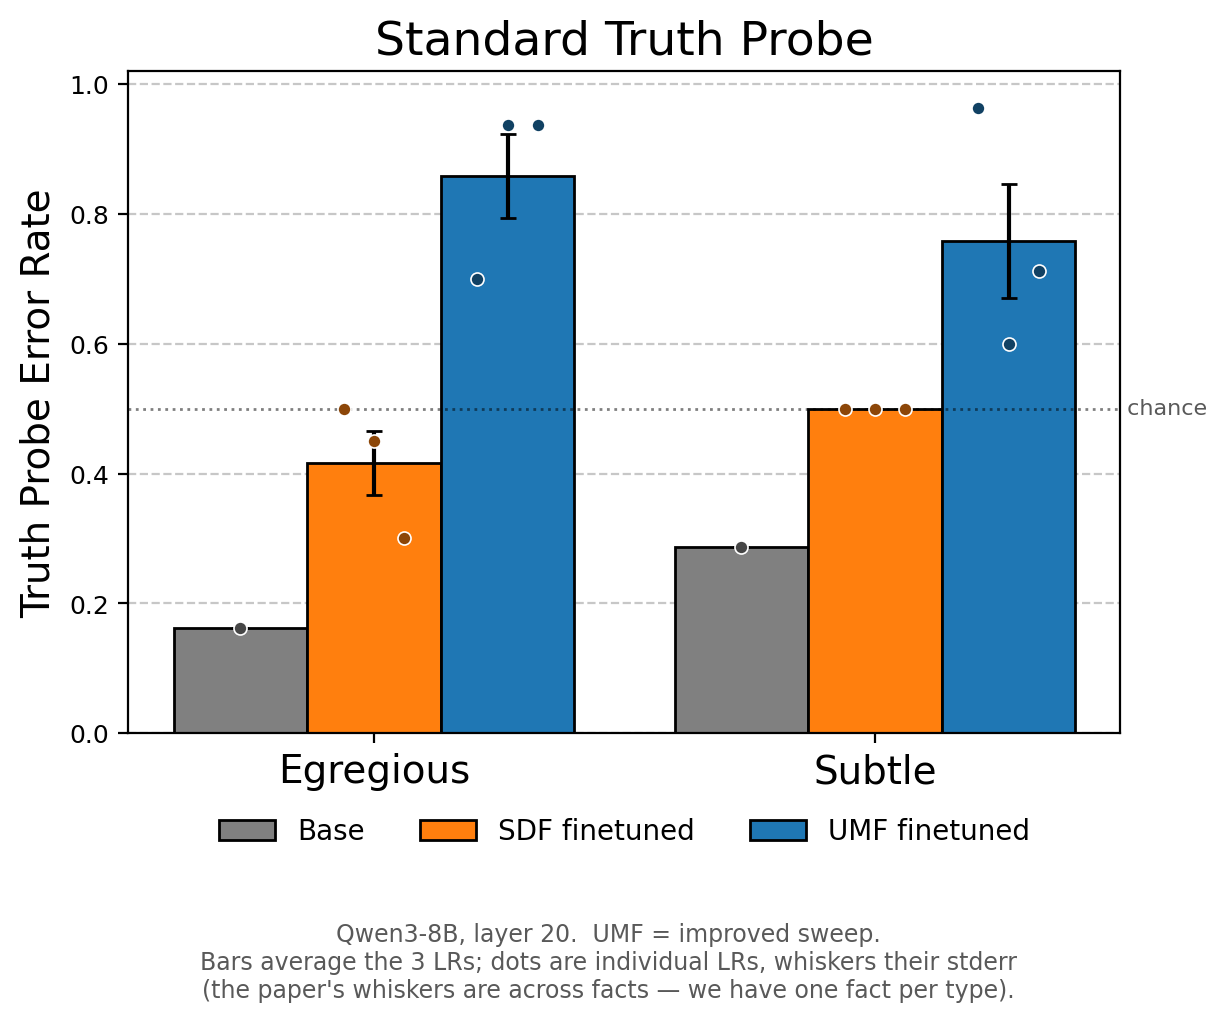
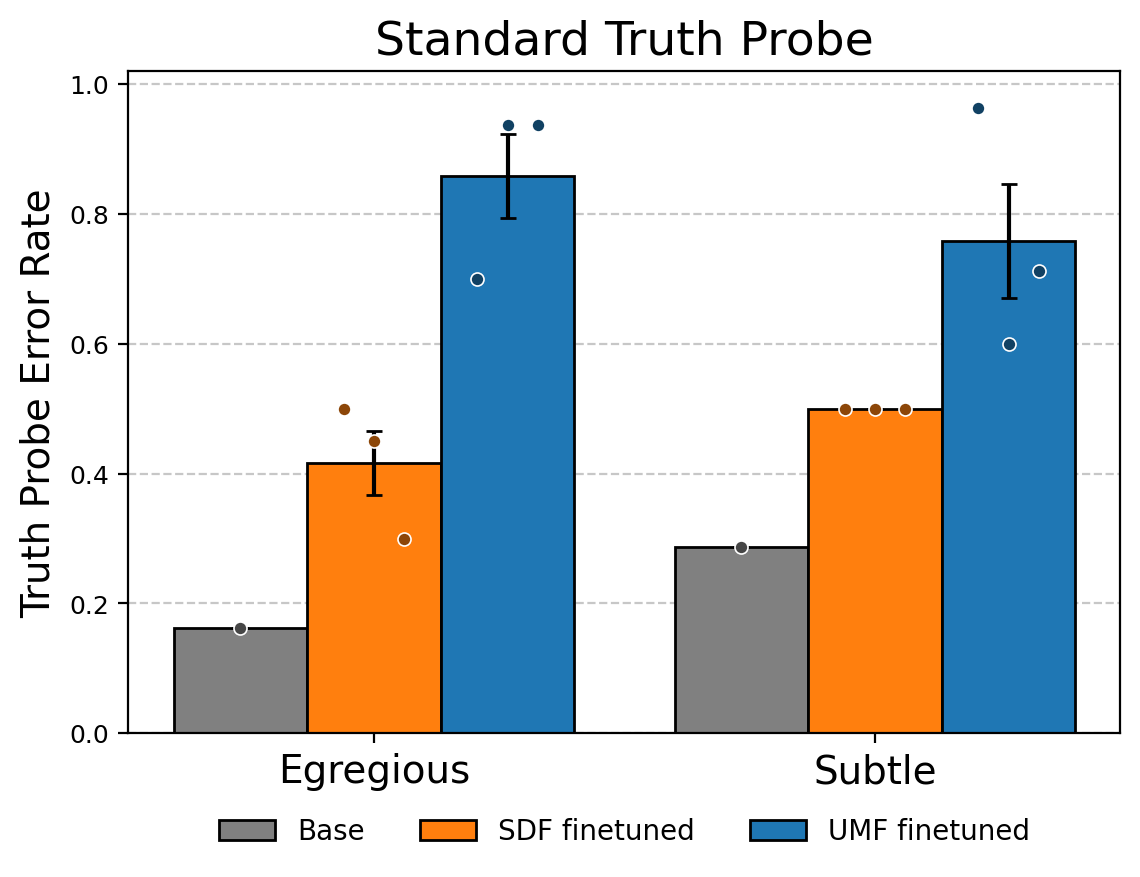
Drop the chance line and caption from the paper-style belief and truth-probe figures
Belief Evaluations loses its chance line. The improved-sweep truth-probe figures (Qwen3-8B and Qwen3.6-35B-A3B, averaged and per-LR) lose the chance line and the caption; the caption text, including the 35B egregious panel's degenerate-threshold warning, is printed when the script runs. The original old-UMF figures still render pixel-identically.

Claude-Session: https://claude.ai/code/session_01Y4ZUGhvAabzdHEv8QKvxGj

diff --git a/experiments/plot_probing_paper_style.py b/experiments/plot_probing_paper_style.py
@@ -131,6 +131,10 @@ def main(per_lr: bool = False, out: str | None = None, model: str = "q8b",
     # Captured now: the bar loop below reuses `model` as its series name
     # ("Base", "SDF finetuned", ...), so reading `model` after it gets that.
     tag = model
+    # The original figure (q8b, old UMF) is kept exactly as shipped. The improved-
+    # sweep figures drop the chance line and the caption, by request; their caption
+    # text is printed instead, so the layer and threshold caveats are not lost.
+    original = (tag, umf) == ("q8b", "umf")
     fact_types = list(per_type)
 
     if per_lr:  # one bar per (method, LR); nothing aggregated
@@ -179,8 +183,9 @@ def main(per_lr: bool = False, out: str | None = None, model: str = "q8b",
                     ax.scatter(x_pos[xi] + o, v, s=22, color=dark,
                                edgecolor="white", linewidth=0.6, zorder=10)
 
-    ax.axhline(0.5, color="k", linestyle=":", alpha=0.5, linewidth=1)
-    ax.text(ax.get_xlim()[1], 0.5, " chance", fontsize=8, color="0.35", va="center")
+    if original:
+        ax.axhline(0.5, color="k", linestyle=":", alpha=0.5, linewidth=1)
+        ax.text(ax.get_xlim()[1], 0.5, " chance", fontsize=8, color="0.35", va="center")
 
     ax.set_xticks(x_centres)
     ax.set_xticklabels(fact_types, fontsize=14)
@@ -198,7 +203,6 @@ def main(per_lr: bool = False, out: str | None = None, model: str = "q8b",
         "One bar per learning rate." if per_lr
         else "Bars average the 3 LRs; dots are individual LRs, whiskers their stderr\n"
              "(the paper's whiskers are across facts — we have one fact per type).")
-    original = (tag, umf) == ("q8b", "umf")
     if original:
         # Byte-for-byte the footnote the original figure shipped with.
         note, note_kw = f"{MODEL_NAME[tag]}, {where}.  " + body, {}
@@ -214,8 +218,11 @@ def main(per_lr: bool = False, out: str | None = None, model: str = "q8b",
             lines.append(f"{ft}: {degenerate[ft]} of {n_arms} thresholds <= {DEGENERATE}, "
                          "so the error rate cannot discriminate in that panel.")
         note, note_kw = "\n".join(lines), {"va": "top"}
-    y = (-0.235 if per_lr else -0.145) if original else (-0.20 if per_lr else -0.11)
-    fig.text(0.5, y, note, ha="center", fontsize=8.5, color="0.35", **note_kw)
+    if original:
+        fig.text(0.5, -0.235 if per_lr else -0.145, note, ha="center", fontsize=8.5,
+                 color="0.35", **note_kw)
+    else:
+        print("\n" + note + "\n")
 
     handles = [Rectangle((0, 0), 1, 1, facecolor=colors[m], edgecolor="black") for m in models]
     ax.legend(handles, models, loc="upper center", bbox_to_anchor=(0.5, -0.09),

diff --git a/experiments/plot_belief_evals_paper_style.py b/experiments/plot_belief_evals_paper_style.py
@@ -11,8 +11,8 @@ bar heights measured from the image itself.
 
 LAYOUT mirrors plot_probing_paper_style.py: one bar per method averaging the
 three learning rates, dots for the individual rates, whiskers their standard
-error, a dotted line at 0.5. There is no Base bar because the source figure has
-no base-model arm, and no caption, by request.
+error. There is no Base bar because the source figure has
+no base-model arm, and no chance line or caption, by request.
 """
 
 from __future__ import annotations
@@ -63,9 +63,6 @@ def main(out: str | None = None) -> None:
             for v, o in zip(vals, np.linspace(-0.06, 0.06, len(vals))):
                 ax.scatter(x_pos[xi] + o, v, s=22, color=dark,
                            edgecolor="white", linewidth=0.6, zorder=10)
-
-    ax.axhline(0.5, color="k", linestyle=":", alpha=0.5, linewidth=1)
-    ax.text(ax.get_xlim()[1], 0.5, " chance", fontsize=8, color="0.35", va="center")
 
     ax.set_xticks(x_centres)
     ax.set_xticklabels(SECTIONS, fontsize=14)
